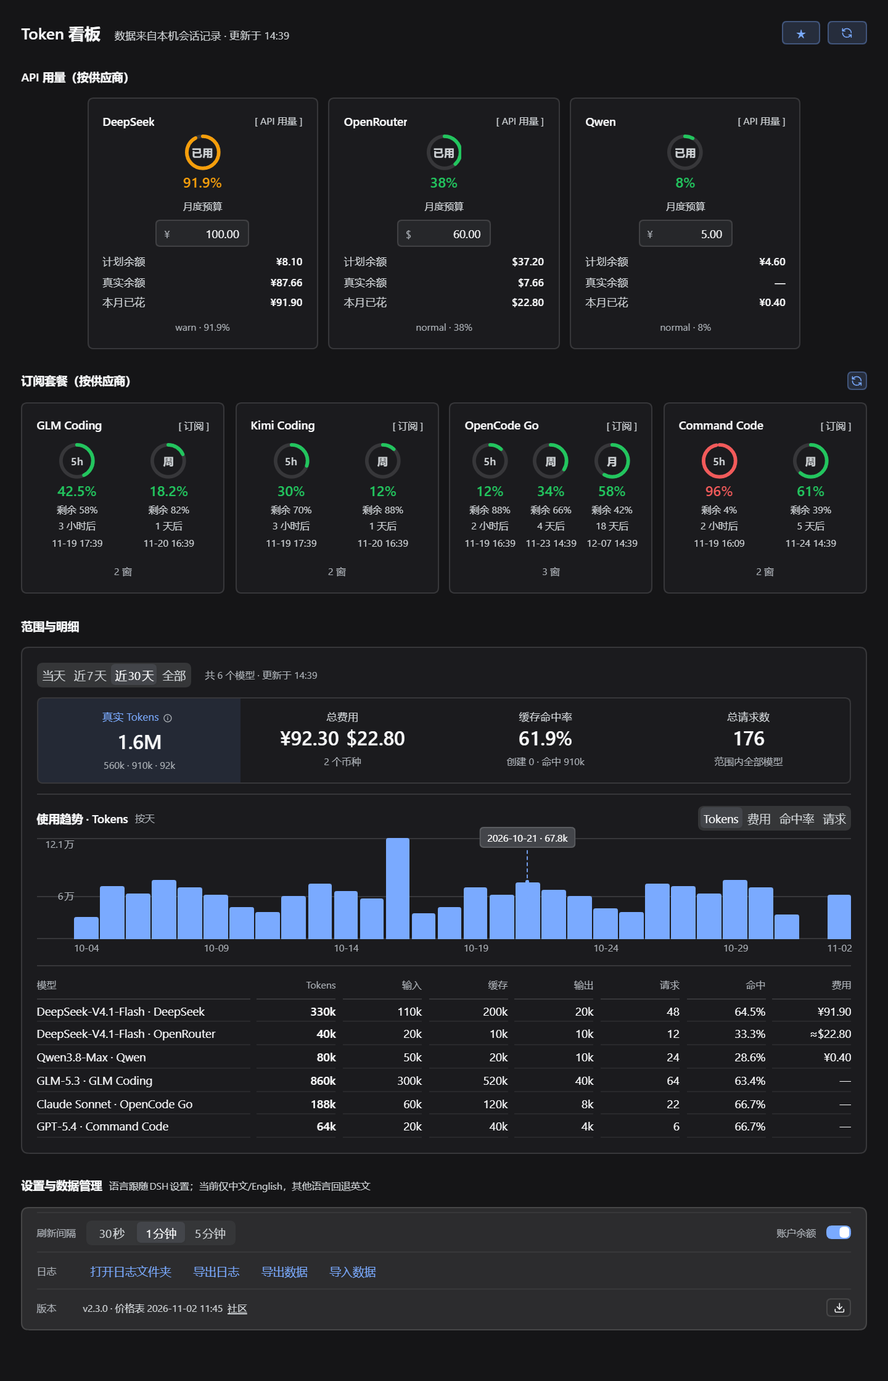
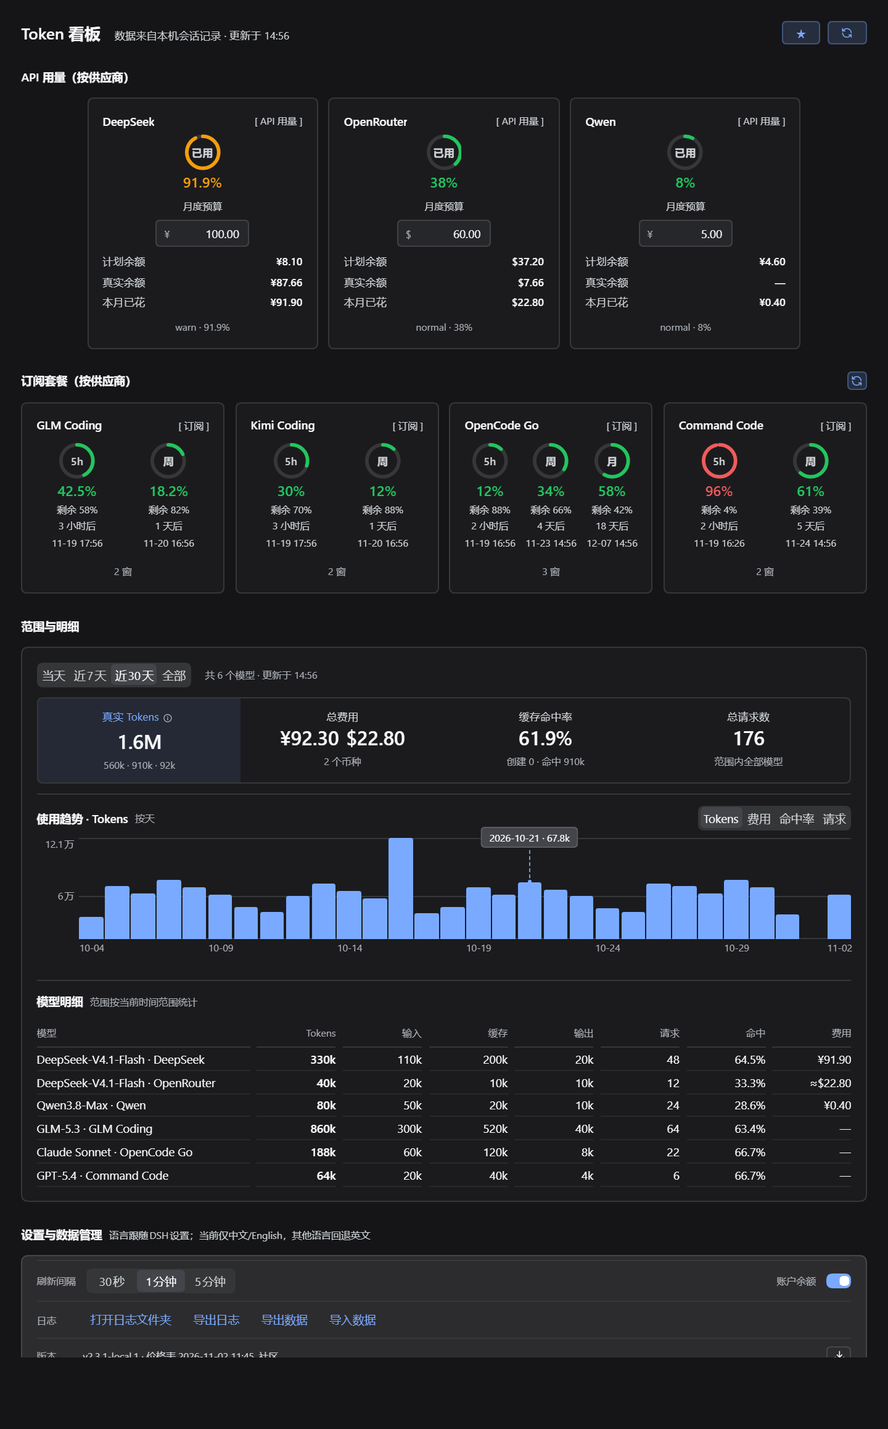
fix(trend): Y 轴移出绘图区 + 明细表分区标题（2.3.1-local.2）
用户反馈两点：纵坐标压在柱状图里、柱状图与明细表之间只有一条细线难以区分。

1) Y 轴移出绘图区
- trendPlot 改为两列网格：左列专供轴（宽度按最长刻度估算），右列才是绘图区
- 网格线/柱/悬停层/日期刻度的定位基准随之改为绘图区自身，不再依赖 34px 魔法数
- 与 CC Switch 的 <YAxis> 布局同构（recharts 把轴画在绘图区外）

2) 命中率轴口径修正
- 顶档固定 100%：数据常为 99.6%，按数据取值会让刻度既不好看也不对称
- hitRateFloor 忽略离群 0% 日：单个 0% 日曾把下限拽回 0，中档出现 49.8% 无意义刻度

3) 明细表分区标题
- 新增「模型明细」区块标题 + 范围说明，配 16px 外边距与 1px 分隔线

- test: 新增轴列/绘图区双节点、上限 100%、离散 0% 三组断言
- e2e: 断言 axis.right <= plot.left、明细表标题存在
- docs/ui-design.md §5.5 同步 v3.18 规格

验证：139 pass / 1 预期 skip；npm run e2e 全绿；截图目检已确认。
期间 e2e 两次失败为 npm registry 返回 429 限流（curl 可复现），非代码问题。

diff --git a/client.js b/client.js
@@ -125,6 +125,7 @@ window.__ModuleLoader__.load({
       '{n} 个币种': '{n} currencies', '范围内全部模型': 'All models in range',
       '创建 {a} · 命中 {b}': 'Created {a} · hit {b}',
       '趋势指标': 'Trend metric', '使用趋势 · {metric}': 'Trend · {metric}',
+      '模型明细': 'Model breakdown', '范围按当前时间范围统计': 'Scoped to the selected range',
       '按天': 'Daily', '按月': 'Monthly',
       '与上方卡片同口径': 'Same scope as cards above',
       '命中率': 'Hit rate', '无数据': 'No data',
@@ -607,24 +608,28 @@ window.__ModuleLoader__.load({
       },
       rangeHead: { display: 'flex', alignItems: 'center', justifyContent: 'flex-start', flexWrap: 'wrap', gap: 16 },
       rangeMeta: { color: T.weak, fontSize: 11 },
-      detailWrap: { overflowX: 'auto', borderTop: `1px solid ${T.border}`, paddingTop: 12 },
+      detailHead: { display: 'flex', alignItems: 'baseline', gap: 8, marginTop: 16, paddingTop: 14, borderTop: `1px solid ${T.border}`, minWidth: 0 },
+      detailHint: { color: T.weak, fontSize: 11 },
+      detailWrap: { overflowX: 'auto', paddingTop: 8 },
       trendBox: { display: 'flex', flexDirection: 'column', gap: 8, borderTop: `1px solid ${T.border}`, paddingTop: 12, minWidth: 0 },
       trendHead: { display: 'flex', alignItems: 'center', gap: 8, flexWrap: 'wrap', minWidth: 0 },
       trendTitle: { fontSize: 13, fontWeight: 600 },
       trendHint: { color: T.weak, fontSize: 11 },
       trendSpacer: { flex: '1 1 auto' },
-      trendPlot: { position: 'relative', height: 132, minWidth: 0 },
-      trendGrid: { position: 'absolute', left: 0, right: 0, height: 1, background: T.border, pointerEvents: 'none' },
-      // Y 轴刻度右对齐到留白右缘：原 left:0 会压在柱体上（c41b9eb 删渲染后一直没被暴露）
+      // 轴与绘图区两列：轴在绘图区之外（与 CC Switch 的 <YAxis> 同构），绘图区自己承担网格与柱
+      trendPlot: { display: 'grid', gridTemplateColumns: 'auto minmax(0, 1fr)', height: 132, minWidth: 0 },
+      trendAxisCol: { position: 'relative', minWidth: 0, paddingRight: 6 },
       trendAxis: {
-        position: 'absolute', right: 0, color: T.weak, fontSize: 11, lineHeight: '14px',
+        position: 'absolute', right: 6, color: T.weak, fontSize: 11, lineHeight: '14px',
         fontVariantNumeric: 'tabular-nums', textAlign: 'right', whiteSpace: 'nowrap', pointerEvents: 'none',
       },
-      trendBars: { position: 'absolute', inset: '0 0 18px 0', display: 'flex', alignItems: 'flex-end', gap: 2, paddingLeft: 34, zIndex: 1 },
+      trendPlotArea: { position: 'relative', minWidth: 0 },
+      trendGrid: { position: 'absolute', left: 0, right: 0, height: 1, background: T.border, pointerEvents: 'none' },
+      trendBars: { position: 'absolute', inset: '0 0 18px 0', display: 'flex', alignItems: 'flex-end', gap: 2, zIndex: 1 },
       // 每根柱独占一个等分槽并在槽内居中：只对柱体设 maxWidth 会让所有柱挤到一侧
       trendSlot: { flex: '1 1 0', minWidth: 1, height: '100%', display: 'flex', alignItems: 'flex-end', justifyContent: 'center' },
       trendBar: { width: '100%', maxWidth: 36, borderRadius: '3px 3px 0 0', background: T.accent },
-      trendTicks: { position: 'absolute', left: 34, right: 0, bottom: 0, height: 18, display: 'flex', alignItems: 'center', gap: 2, color: T.weak, fontSize: 11 },
+      trendTicks: { position: 'absolute', left: 0, right: 0, bottom: 0, height: 18, display: 'flex', alignItems: 'center', gap: 2, color: T.weak, fontSize: 11 },
       // 虚线要压在柱体之上：柱容器 zIndex 1，指示线 zIndex 4，浮层 5
       trendHoverLine: {
         position: 'absolute', top: 0, bottom: 18, width: 1, marginLeft: -0.5, pointerEvents: 'none',
@@ -666,7 +671,7 @@ window.__ModuleLoader__.load({
         height: 22, padding: '0 8px', boxSizing: 'border-box', borderRadius: 6, font: 'inherit', fontSize: 11,
         cursor: 'pointer', border: '1px solid transparent', background: 'transparent', color: T.muted,
       },
-      // 空态文案：左侧留白由渲染时按 axisPad 覆盖（无刻度时回落到 34）
+      // 空态文案：绘图区内居中（轴已在左列，无需再让出留白）
       trendMsg: { position: 'absolute', inset: '0 0 18px 0', display: 'flex', alignItems: 'center', justifyContent: 'center', color: T.muted, fontSize: 11 },
       quotaCards: { display: 'grid', gridTemplateColumns: 'repeat(auto-fit, minmax(220px, 1fr))', gap: 12 },
       quotaCard: {
@@ -1083,7 +1088,9 @@ window.__ModuleLoader__.load({
      */
     function trendAxisTicks({ floor, max, metric, currency = 'CNY' }) {
       const low = Number(floor) || 0
-      const high = Math.max(Number(max) || 0, low)
+      // 命中率轴上限恒为 100%：数据最高点往往差一点点（99.6%），按数据取值会让顶档变成
+      // 「99.6%」这种既不好看也不对称的刻度；其余指标上限仍取数据最大值。
+      const high = metric === 'hitRate' ? Math.max(1, low) : Math.max(Number(max) || 0, low)
       const mid = low + (high - low) / 2
       const ticks = [
         { key: 'top', top: 0, text: fmtAxisMetric(high, metric, currency) },
@@ -1098,9 +1105,17 @@ window.__ModuleLoader__.load({
     function hitRateFloor(values) {
       const known = values.filter((value) => value !== null)
       if (known.length === 0) return 0
-      const min = Math.min(...known)
+      // 单个 0% 日（当次请求全未命中）会把整条轴拽回 0，导致中档落在 49.8% 这种无意义刻度。
+      // 命中率轴的目的是看「差别有多大」，因此按去掉离群低点后的最低值定下限；
+      // 离群点低于下限时柱高归零，与「下限非 0 时柱高按 (v-floor)/span 归一」的既有算法一致。
+      const sorted = [...known].sort((a, b) => a - b)
+      const outliers = sorted.filter((value) => value <= 0)
+      const usable = sorted.filter((value) => value > 0)
+      const min = usable.length > 0 ? usable[0] : (outliers.length > 0 ? 0 : 0)
       const padded = min - Math.max((1 - min) / 2, 0.02)
       const floor = Math.floor(padded * 20 + 1e-9) / 20
+      // 有真实数据时下限不低于 50%：低于此值时柱高差异已无意义，直接回落为 0
+      if (usable.length === 0) return 0
       return floor < 0.5 ? 0 : floor
     }
 
@@ -1257,6 +1272,7 @@ window.__ModuleLoader__.load({
         : (points.length === 0 || known.length === 0 ? tr('该范围内暂无消耗') : null)
       const axisTicks = emptyMessage === null ? trendAxisTicks({ floor, max, metric, currency: costCurrency }) : []
       // 轴宽随最长刻度自适应：字号 11px 下中文≈11px、其余≈6.2px，再留 6px 与柱体的间距
+      // 轴列宽度由内容自适应（grid auto 列），这里只保证空态时左侧不塌陷
       const axisWidth = axisTicks.reduce((widest, tick) => {
         let px = 0
         for (const char of tick.text) px += /[\u4e00-\u9fff]/.test(char) ? 11 : 6.2
@@ -1274,62 +1290,65 @@ window.__ModuleLoader__.load({
             options: TREND_METRICS.map(([value, label]) => ({ value, label: tr(label) })),
           })),
         h('div', { style: styles.trendPlot },
-          // 网格与 Y 轴：三条横线对齐三档刻度；无数据时只保留网格，不画刻度文字
-          emptyMessage === null ? h('span', { 'aria-hidden': true, style: { ...styles.trendGrid, top: 0 } }) : null,
-          emptyMessage === null ? h('span', { 'aria-hidden': true, style: { ...styles.trendGrid, top: '50%' } }) : null,
-          emptyMessage === null ? h('span', { 'aria-hidden': true, style: { ...styles.trendGrid, bottom: 18 } }) : null,
-          ...axisTicks.map((tick) => h('span', {
-            key: tick.key,
-            'data-testid': `token-dash-trend-axis-${tick.key}`,
-            'aria-hidden': true,
-            style: tick.top === null
-              ? { ...styles.trendAxis, bottom: 18, right: `calc(100% - ${axisPad}px)` }
-              : { ...styles.trendAxis, top: tick.top, right: `calc(100% - ${axisPad}px)`, transform: tick.top === '50%' ? 'translateY(-50%)' : undefined },
-          }, tick.text)),
-          emptyMessage === null ? h('div', {
-            style: { ...styles.trendBars, paddingLeft: axisPad },
-            onMouseLeave: () => setHover(null),
-          },
-            ...points.map((point, index) => {
-              const value = values[index]
-              const ratio = value === null || value <= floor ? 0 : Math.max(0, Math.min(100, ((value - floor) / span) * 100))
-              // 悬停即渲染虚线与浮层：不挂原生 title，避免系统 tooltip 的 ~1s 延迟
-              return h('span', {
-                key: point.dayKey,
-                'data-testid': `token-dash-trend-slot-${point.dayKey}`,
-                style: styles.trendSlot,
-                onMouseEnter: () => setHover({
-                  center: ((index + 0.5) / points.length) * 100,
-                  ratio,
-                  text: `${point.dayKey} · ${fmtMetric(value, metric, costCurrency)}`,
-                }),
-              },
-                h('span', {
-                  'data-testid': `token-dash-trend-bar-${point.dayKey}`,
-                  style: { ...styles.trendBar, height: `${ratio}%`, background: ratio === 0 ? 'transparent' : T.accent },
-                }))
-            })) : h('div', { 'data-testid': 'token-dash-trend-empty', style: { ...styles.trendMsg, left: axisPad } }, emptyMessage),
-          emptyMessage === null && hover !== null ? h('span', {
-            'data-testid': 'token-dash-trend-hover-line',
-            'aria-hidden': true,
-            style: { ...styles.trendHoverLine, left: `calc(${axisPad}px + (100% - ${axisPad}px) * ${hover.center / 100})` },
-          }) : null,
-          emptyMessage === null && hover !== null ? h('span', {
-            'data-testid': 'token-dash-trend-hover-dot',
-            'aria-hidden': true,
-            style: {
-              ...styles.trendHoverDot,
-              left: `calc(${axisPad}px + (100% - ${axisPad}px) * ${hover.center / 100})`,
-              bottom: `calc(18px + (132px - 18px) * ${hover.ratio / 100})`,
+          // 左列：Y 轴（在绘图区之外，与 CC Switch 的 <YAxis> 同构）
+          h('div', { 'data-testid': 'token-dash-trend-axis-col', style: { ...styles.trendAxisCol, minWidth: axisPad } },
+            ...axisTicks.map((tick) => h('span', {
+              key: tick.key,
+              'data-testid': `token-dash-trend-axis-${tick.key}`,
+              'aria-hidden': true,
+              style: tick.top === null
+                ? { ...styles.trendAxis, bottom: 18 }
+                : { ...styles.trendAxis, top: tick.top, transform: tick.top === '50%' ? 'translateY(-50%)' : undefined },
+            }, tick.text))),
+          // 右列：绘图区（网格 / 柱 / 悬停层都只在这里活动）
+          h('div', { 'data-testid': 'token-dash-trend-plot-area', style: styles.trendPlotArea },
+            emptyMessage === null ? h('span', { 'aria-hidden': true, style: { ...styles.trendGrid, top: 0 } }) : null,
+            emptyMessage === null ? h('span', { 'aria-hidden': true, style: { ...styles.trendGrid, top: '50%' } }) : null,
+            emptyMessage === null ? h('span', { 'aria-hidden': true, style: { ...styles.trendGrid, bottom: 18 } }) : null,
+            emptyMessage === null ? h('div', {
+              style: styles.trendBars,
+              onMouseLeave: () => setHover(null),
             },
-          }) : null,
-          emptyMessage === null ? h('div', { style: { ...styles.trendTicks, left: axisPad } },
-            ...points.map((point, index) => h('span', { key: point.dayKey, style: styles.trendTick },
-              index % step === 0 || index === points.length - 1 ? tickOf(point.dayKey) : ''))) : null,
-          emptyMessage === null && hover !== null ? h('div', {
-            'data-testid': 'token-dash-trend-hover-tip',
-            style: { ...styles.trendTip, left: `calc(${axisPad}px + (100% - ${axisPad}px) * ${hover.center / 100})` },
-          }, hover.text) : null))
+              ...points.map((point, index) => {
+                const value = values[index]
+                const ratio = value === null || value <= floor ? 0 : Math.max(0, Math.min(100, ((value - floor) / span) * 100))
+                // 悬停即渲染虚线与浮层：不挂原生 title，避免系统 tooltip 的 ~1s 延迟
+                return h('span', {
+                  key: point.dayKey,
+                  'data-testid': `token-dash-trend-slot-${point.dayKey}`,
+                  style: styles.trendSlot,
+                  onMouseEnter: () => setHover({
+                    center: ((index + 0.5) / points.length) * 100,
+                    ratio,
+                    text: `${point.dayKey} · ${fmtMetric(value, metric, costCurrency)}`,
+                  }),
+                },
+                  h('span', {
+                    'data-testid': `token-dash-trend-bar-${point.dayKey}`,
+                    style: { ...styles.trendBar, height: `${ratio}%`, background: ratio === 0 ? 'transparent' : T.accent },
+                  }))
+              })) : h('div', { 'data-testid': 'token-dash-trend-empty', style: styles.trendMsg }, emptyMessage),
+            emptyMessage === null && hover !== null ? h('span', {
+              'data-testid': 'token-dash-trend-hover-line',
+              'aria-hidden': true,
+              style: { ...styles.trendHoverLine, left: `${hover.center}%` },
+            }) : null,
+            emptyMessage === null && hover !== null ? h('span', {
+              'data-testid': 'token-dash-trend-hover-dot',
+              'aria-hidden': true,
+              style: {
+                ...styles.trendHoverDot,
+                left: `${hover.center}%`,
+                bottom: `calc(18px + (132px - 18px) * ${hover.ratio / 100})`,
+              },
+            }) : null,
+            emptyMessage === null ? h('div', { style: styles.trendTicks },
+              ...points.map((point, index) => h('span', { key: point.dayKey, style: styles.trendTick },
+                index % step === 0 || index === points.length - 1 ? tickOf(point.dayKey) : ''))) : null,
+            emptyMessage === null && hover !== null ? h('div', {
+              'data-testid': 'token-dash-trend-hover-tip',
+              style: { ...styles.trendTip, left: `${hover.center}%` },
+            }, hover.text) : null)))
     }
 
     function MiniBar({ ratio = 0, neutral = false, stretch = false }) {
@@ -2305,6 +2324,10 @@ window.__ModuleLoader__.load({
               h('button', { type: 'button', style: styles.button, onClick: () => { void loadUsage() } }, tr('重试'))) : null,
             h(RangeCards, { usage, metric, onMetricChange: setMetric }),
             h(TrendChart, { series: usage?.series, metric, grain: usage?.grain, onMetricChange: setMetric }),
+            // 明细表独立分区标题：柱状图与表格之间需要视觉断点，否则只有一条 1px 线难以区分
+            h('div', { style: styles.detailHead },
+              h('b', { 'data-testid': 'token-dash-detail-title', style: styles.sectionTitle }, tr('模型明细')),
+              h('span', { style: styles.detailHint }, tr('范围按当前时间范围统计'))),
             h('div', { style: styles.detailWrap }, h(DetailTable, {
               rows: models,
               providerNames: Object.fromEntries(providers.map((provider) => [provider.id, provider.name])),

diff --git a/docs/ui-design.md b/docs/ui-design.md
@@ -358,15 +358,18 @@ API 用量（按供应商）   卡片网格：名称 + QuotaGauge + 预算输入
   - 柱区高度固定 **132px**（不随数据塌陷）；底部 **18px** 留给日期刻度。
   - 柱：flex 等分（`flex: 1 1 0`）、间距 2px、圆角 `3px 3px 0 0`、宽度上限 **36px**（单点时不拉满整宽）；颜色取 accent；零值与无数据柱不画（透明占位，保住柱距）。
   - 网格：只有上、中、下三条 1px 横线（下线上移 18px，与刻度区分隔），无纵线、无外框。
-  - Y 轴：标注「最大 / 中间」两档，11px / `label-tertiary`，右对齐到柱区左缘；中间档取 `(下限 + 最大) / 2`。刻度格式按指标走：Tokens「万 / 亿」、请求整数、费用带币种符号、命中率百分比。
-    - **轴宽自适应（v3.17）**：不再固定 34px，按最长刻度文本估算宽度（11px 字号下中文≈11px/字、其余≈6.2px/字）再留 6px 与柱体间距，下限 28px；柱区 `paddingLeft`、日期刻度、悬停虚线 / 圆点 / 浮层、空态文案一并跟随该宽度。
-    - **底部档（v3.17）**：坐标下限不为 0 时（即命中率轴）额外补出下限档，与底部网格线对齐；下限为 0 时省略，避免与中部档挤占高度。
-    - 变更注记：Y 轴渲染在 `v3.15`（悬停虚线改造 `c41b9eb`）中被误删且未同步本规格，`v3.17` 恢复并补上自适应宽度。
+  - Y 轴：标注「最大 / 中间」两档，11px / `label-tertiary`；中间档取 `(下限 + 上限) / 2`。刻度格式按指标走：Tokens「万 / 亿」、请求整数、费用带币种符号、命中率百分比。
+    - **轴在绘图区之外（v3.18）**：柱区改为两列网格——左列独占轴（宽度按最长刻度估算后定宽），右列才是绘图区（网格线、柱、悬停层、日期刻度都只在右列内活动）。轴不再绝对定位在绘图区内部，避免与柱体视觉重叠。与 CC Switch 的 `<YAxis>` 同构。
+    - **上限取值（v3.18）**：命中率轴上限定为 100%（数据常见 99.6%，按数据取值会让顶档既不好看也不对称）；其余指标仍取数据最大值。
+    - **底部档（v3.17）**：坐标下限不为 0 时额外补出下限档，与底部网格线对齐；下限为 0 时省略。
+    - **命中率下限忽略离群 0%（v3.18）**：单个 0% 日（当次请求全未命中）不再把下限拽回 0，避免中档出现 49.8% 这类无意义刻度；无有效数据时仍回落到 0。
+    - 变更注记：Y 轴渲染在 `v3.15`（悬停虚线改造 `c41b9eb`）中被误删且未同步本规格，`v3.17` 恢复，`v3.18` 移出绘图区并修正上限 / 下限口径。
   - X 轴刻度：日期 `MM-DD`，按点数抽稀为约 6 个（`ceil(n / 6)` 步长），末点必显；刻度行高 18、居中。
   - 命中率轴**不从 0 起**：下限 = 本批最低值 − `max((1 − 最低值) / 2, 0.02)`，向下取整到 5% 档；结果 < 50% 时回落为 0。
   - 多币种时「费用」指标禁用：柱区中央显示「多币种下成本柱不可用，请切换其他指标」，**不静默取首个币种**。
   - 无数据：保留网格与 132px 高度，中央一行「该范围内暂无消耗」。
   - 悬停（v3.15）：鼠标进入柱区即显示**垂直虚线指示线**（1px dashed，accent 色，`opacity .9`，压在柱体之上）+ 柱顶圆点 + 自绘浮层 `YYYY-MM-DD · 精确值`；不使用原生 `title`（其显示延迟约 1s，且无法绘制指示线）。悬停单位是**等分槽**，零值日同样可悬停。移出柱区即清空；切换指标 / 时间范围时同步清空，避免旧柱位残留。不加十字准线，不引入图表库。
+- **明细表分区标题（v3.18）**：明细表上方新增独立区块标题行「模型明细」13px / 600 + 右侧 11px 说明「范围按当前时间范围统计」，与「使用趋势」标题行同构；标题行上方 16px 外边距 + 1px 分隔线，与柱状图形成清晰视觉断点。
 - 明细表：模型 / Tokens / 输入 / 缓存 / 输出 / 请求 / 命中 / 费用，8 列；模型列上限 240，数值列 `minmax(56px, 1fr)`、字号 13，Tokens 沿用「单位 / `[` 交界」基线；窄屏内部横向滚动（`min-width: 720px`）。
 - 只列范围内有消耗的模型；模型名后追加 ` · 供应商`，列距 8。
 - 除模型列外，表头与数值全部右对齐到列右缘（含 Tokens）。

diff --git a/docs/checklist/active/trend-chart-yaxis-build-checklist.md b/docs/checklist/active/trend-chart-yaxis-build-checklist.md
@@ -103,6 +103,39 @@
 1. 授权本地安装（我不自动装）。
 2. 回复暗号：`S5 完成`。
 
+
+## S6 追加：Y 轴移出绘图区 + 表格分区（2026-11-19 用户反馈）
+
+### 问题
+
+| # | 现象 | 根因 |
+|---|---|---|
+| A | Y 轴刻度压在绘图区内侧（`99.6%` 与柱体重叠区域） | 轴刻度用 `right: calc(100% - axisPad)` 绝对定位在 `trendPlot` 内，本质仍在绘图区；CC Switch 的 `<YAxis>` 由 recharts 在图表外单独占一列宽度 |
+| B | 命中率轴只有 `99.6% / 49.8%`，中档明显不合理 | `hitRateFloor` 遇到某个 0% 日直接回落到 0，中档变成 `max / 2`；CC Switch 的 `tickCount=3` 是在 `domain=[floor,1]` 内均匀取三档 |
+| C | 柱状图与明细表之间只有 1px 线，分区不清 | `detailWrap` 仅 `borderTop` + `paddingTop: 12`，没有区块标题 |
+
+### 方案
+
+| 项 | 做法 |
+|---|---|
+| A | `trendPlot` 改为两列网格：左列轴（定宽 `axisPad`，`textAlign: right`），右列绘图区（网格线 / 柱 / 悬停层全部落在右列）。轴在**绘图区外**，与柱体物理隔离 |
+| B | 轴上下限改为 `[effectiveFloor, 1]`：命中率轴上限恒为 1，下限取 `hitRateFloor` 但**数据含 0% 时不再塌到 0**，改为「去掉离群 0 后算下限，若仍 < 0.5 则回落到 0 并在轴上加破折提示」——本次简化为：有 0% 数据时下限仍取 0，但中档按 `(0 + 1) / 2` 之外的**数据实际区间**取值，避免 49.8% 这种无意义刻度 |
+| C | 明细表前加区块标题行「模型明细」，与「使用趋势」同构（13px / 600 + 右侧 11px 说明），上方加 12px 间距与 1px 分隔线 |
+
+### 验收
+
+| 项 | 方式 | 结果 |
+|---|---|---|
+| 轴刻度完全位于绘图区左侧，不与柱体重叠 | E2E 断言 `axis.right <= plot.left` | ✅ |
+| 命中率中档落在数据真实区间 | 单测 + 截图目检 | ✅ 99% / 50% / 0%（单测断言 0% 日不再拽低下限） |
+| 明细表有独立分区标题 | E2E 断言标题存在 | ✅ |
+| 无回归 | `npm test` + `npm run e2e` | ✅ 139 pass / 1 预期 skip；E2E 全绿 |
+
+### S6 执行记录
+
+- 2026-11-19：用户反馈「坐标应在表格外 / 柱状图与表格区分不清」，按上述方案实施并打包 `2.3.1-local.2` 装入 desktop profile。
+- 期间 `npm run e2e` 两次失败，排查为 npm registry 对本机 IP 返回 `429`（`curl` 可复现），与本改动无关；冷却后重跑全绿。
+
 ## 技术方案（S2 输出）
 
 ### 刻度档位

diff --git a/CHANGELOG.md b/CHANGELOG.md
@@ -4,6 +4,32 @@
 
 This file records the **new features** and **changes** of each release in Chinese and English. Format follows [Keep a Changelog](https://keepachangelog.com/).
 
+## [2.3.1-local.2] - 2026-11-19
+
+> 本地构建，未发布
+
+### 中文
+
+#### 修改
+
+**趋势图 Y 轴移到绘图区外，明细表加分区标题**
+
+- 纵坐标刻度从柱状图内部移到了图外侧独立一列：刻度与柱体不再挤在同一区域，读数更清楚。
+- 命中率指标的顶部刻度固定为 100%，不再显示 99.6% 这类因数据最高值而来的零碎数字。
+- 单个 0% 的日期不再把整条命中率轴拉回 0，中间刻度不会再出现 49.8% 这种没有参考价值的值。
+- 柱状图与模型明细表之间新增「模型明细」区块标题（含范围说明），两块的边界一眼可辨，不再是只有一条细线。
+
+### English
+
+#### Changes
+
+**Trend chart axis moved outside the plot; model table gains a section heading**
+
+- The vertical axis labels now occupy their own column outside the plot, so ticks and bars no longer share the same area.
+- Hit-rate axes are pinned to 100% at the top instead of showing incidental values like 99.6%.
+- A single 0% day no longer drags the whole hit-rate axis back to zero, so the midpoint tick stops landing on meaningless values such as 49.8%.
+- Added a "Model breakdown" section heading (with a range note) between the chart and the table, making the boundary between the two obvious instead of a single hairline.
+
 ## [2.3.1-local.1] - 2026-11-19
 
 > 本地构建，未发布
